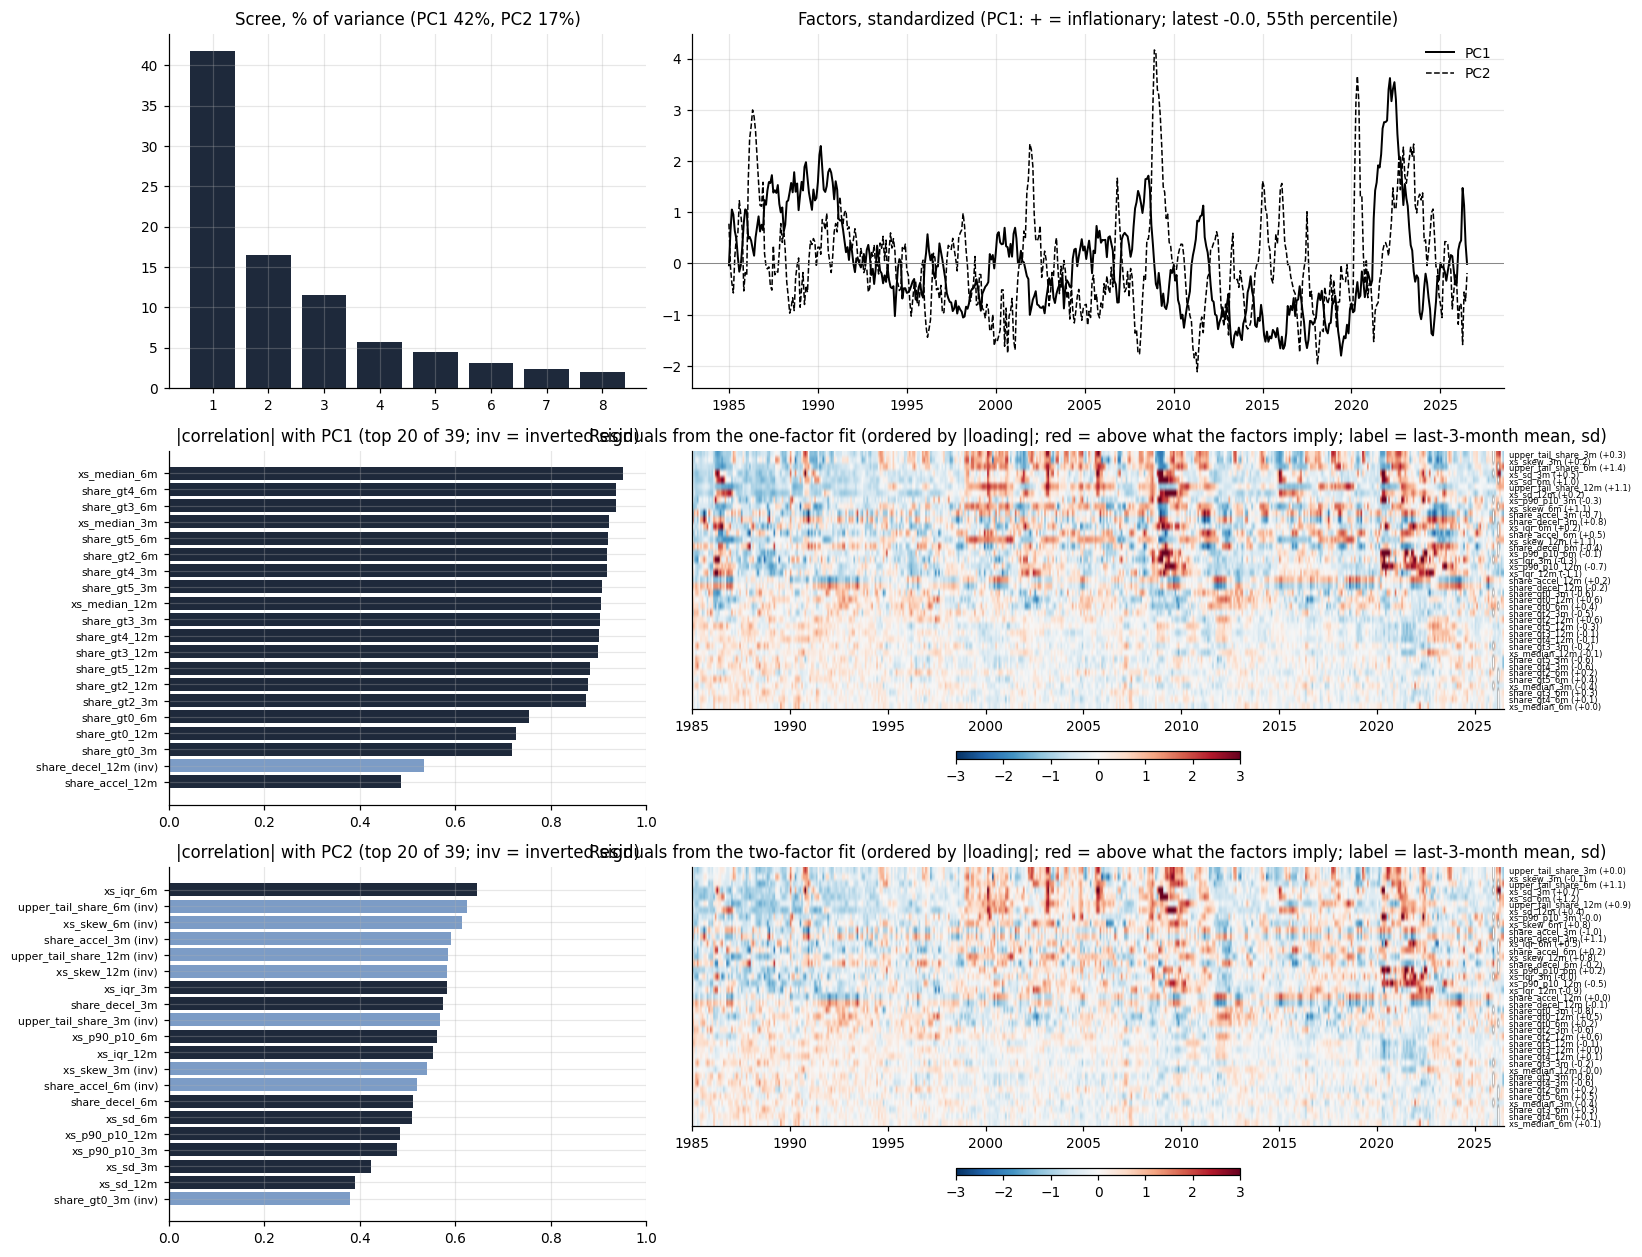
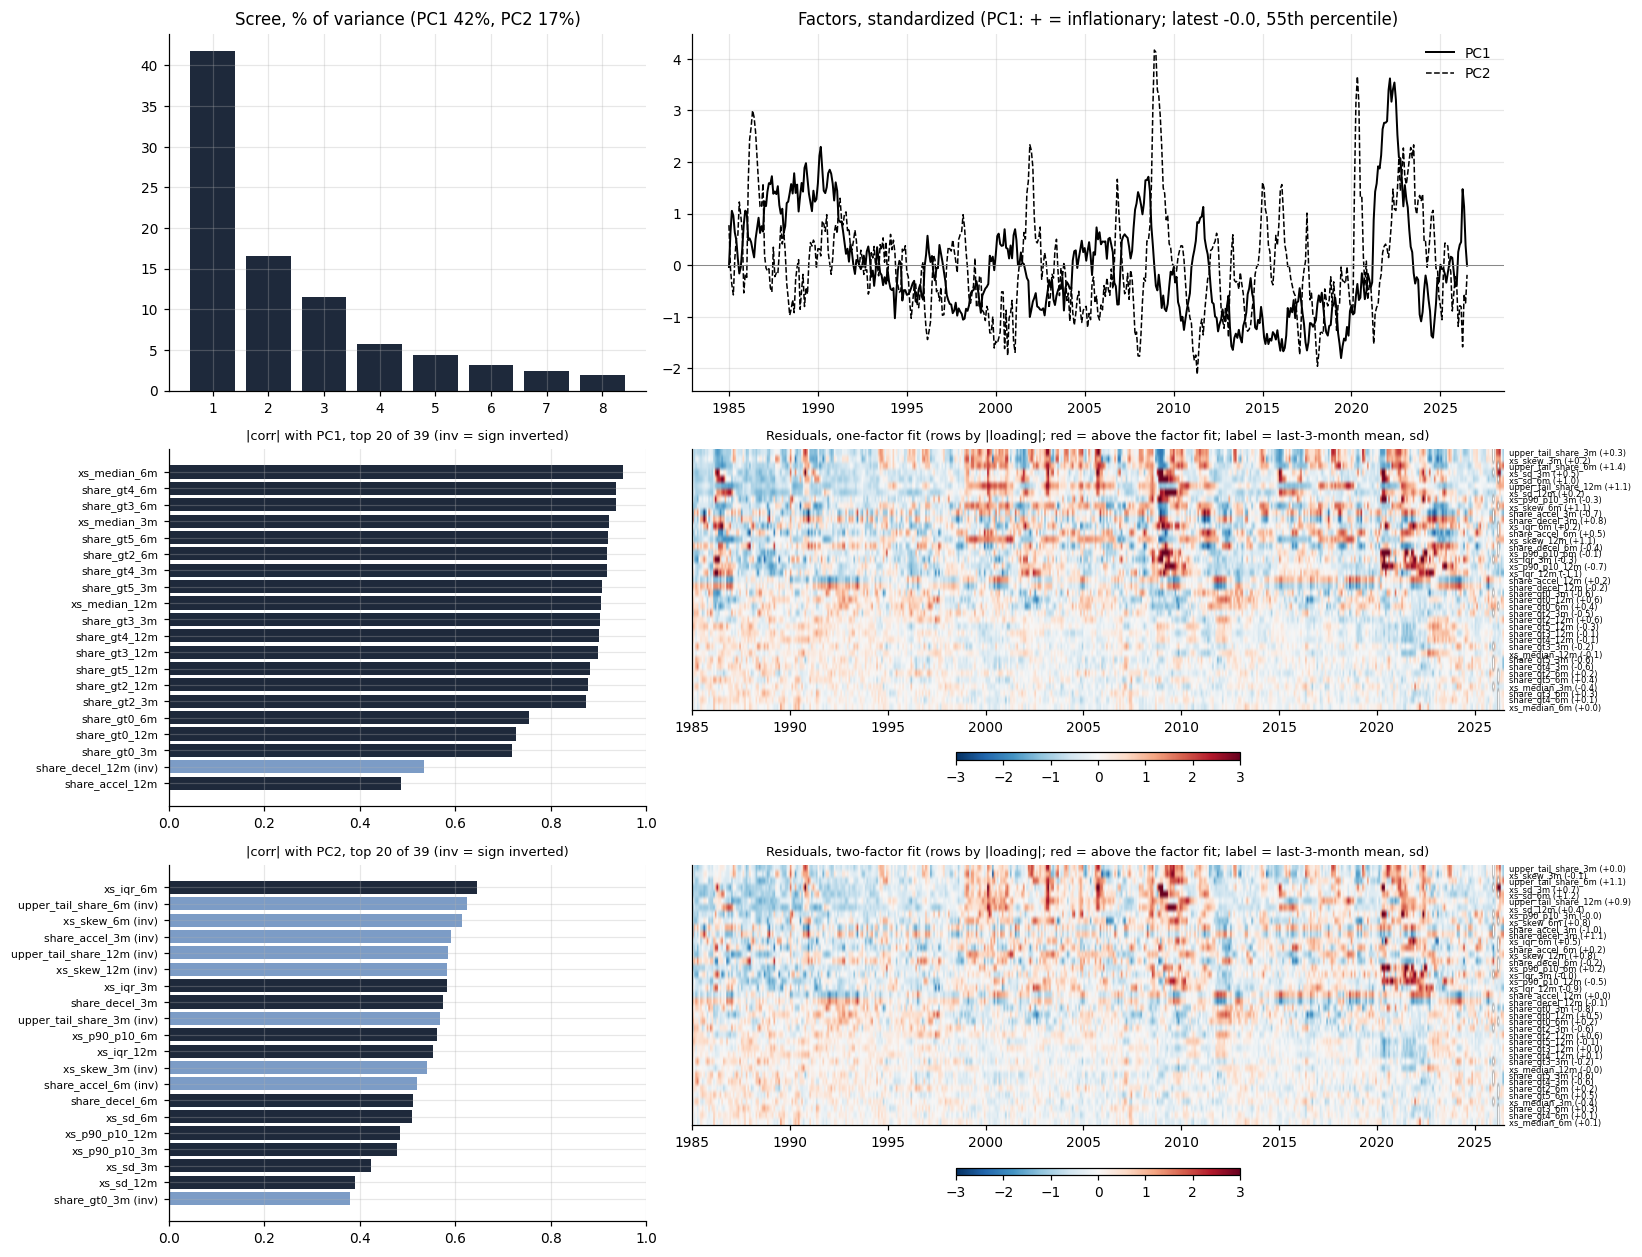
US inflation signals: shorter panel titles

diff --git a/run.py b/run.py
@@ -213,14 +213,14 @@ def block_eda(name, df, ref, flip=False, title=""):
     def corr_panel(a, l, lab):
         k = min(20, len(l)); show = l.reindex(l.abs().sort_values().index[-k:])
         a.barh(range(k), show.abs().values, color=np.where(show.values > 0, "#1e293b", "#7c9cc6")); a.set_yticks(range(k)); a.set_yticklabels([f"{vname(c)}{' (inv)' if v < 0 else ''}" for c, v in show.items()], fontsize=7)
-        a.set_xlim(0, 1); a.set_title(f"|correlation| with {lab} (top {k} of {len(l)}; inv = inverted sign)")
+        a.set_xlim(0, 1); a.set_title(f"|corr| with {lab}, top {k} of {len(l)} (inv = sign inverted)", fontsize=8.5)
     def heat(a, res, l, lab):
         order = l.abs().sort_values().index
         im = a.imshow(res[order].T.values, aspect="auto", cmap="RdBu_r", vmin=-3, vmax=3, extent=[mdates.date2num(res.index[0]), mdates.date2num(res.index[-1]), len(order), 0]); a.xaxis_date(); a.grid(False)
         last = res[order].iloc[-3:].mean()                       # label every variable when readable, otherwise only those with a large end-of-sample residual
         lab_rows = list(range(len(order))) if len(order) <= 45 else [i for i, c in enumerate(order) if abs(last[c]) > 1.0]
         a.yaxis.tick_right(); a.set_yticks([i + 0.5 for i in lab_rows]); a.set_yticklabels([f"{vname(order[i])} ({last[order[i]]:+.1f})" for i in lab_rows], fontsize=5.5 if len(lab_rows) > 25 else 7); a.tick_params(axis="y", length=0)
-        a.set_title(f"Residuals from the {lab} fit (ordered by |loading|; red = above what the factors imply; label = last-3-month mean, sd)")
+        a.set_title(f"Residuals, {lab} fit (rows by |loading|; red = above the factor fit; label = last-3-month mean, sd)", fontsize=8.5)
         fig.colorbar(im, ax=a, orientation="horizontal", shrink=.35, pad=.12, aspect=40)
     corr_panel(ax[1, 0], l1, "PC1"); heat(ax[1, 1], res1, l1, "one-factor"); corr_panel(ax[2, 0], l2, "PC2"); heat(ax[2, 1], res2, l1, "two-factor")
     plt.tight_layout(); R.fig(fig, f"block_{name}", title)
